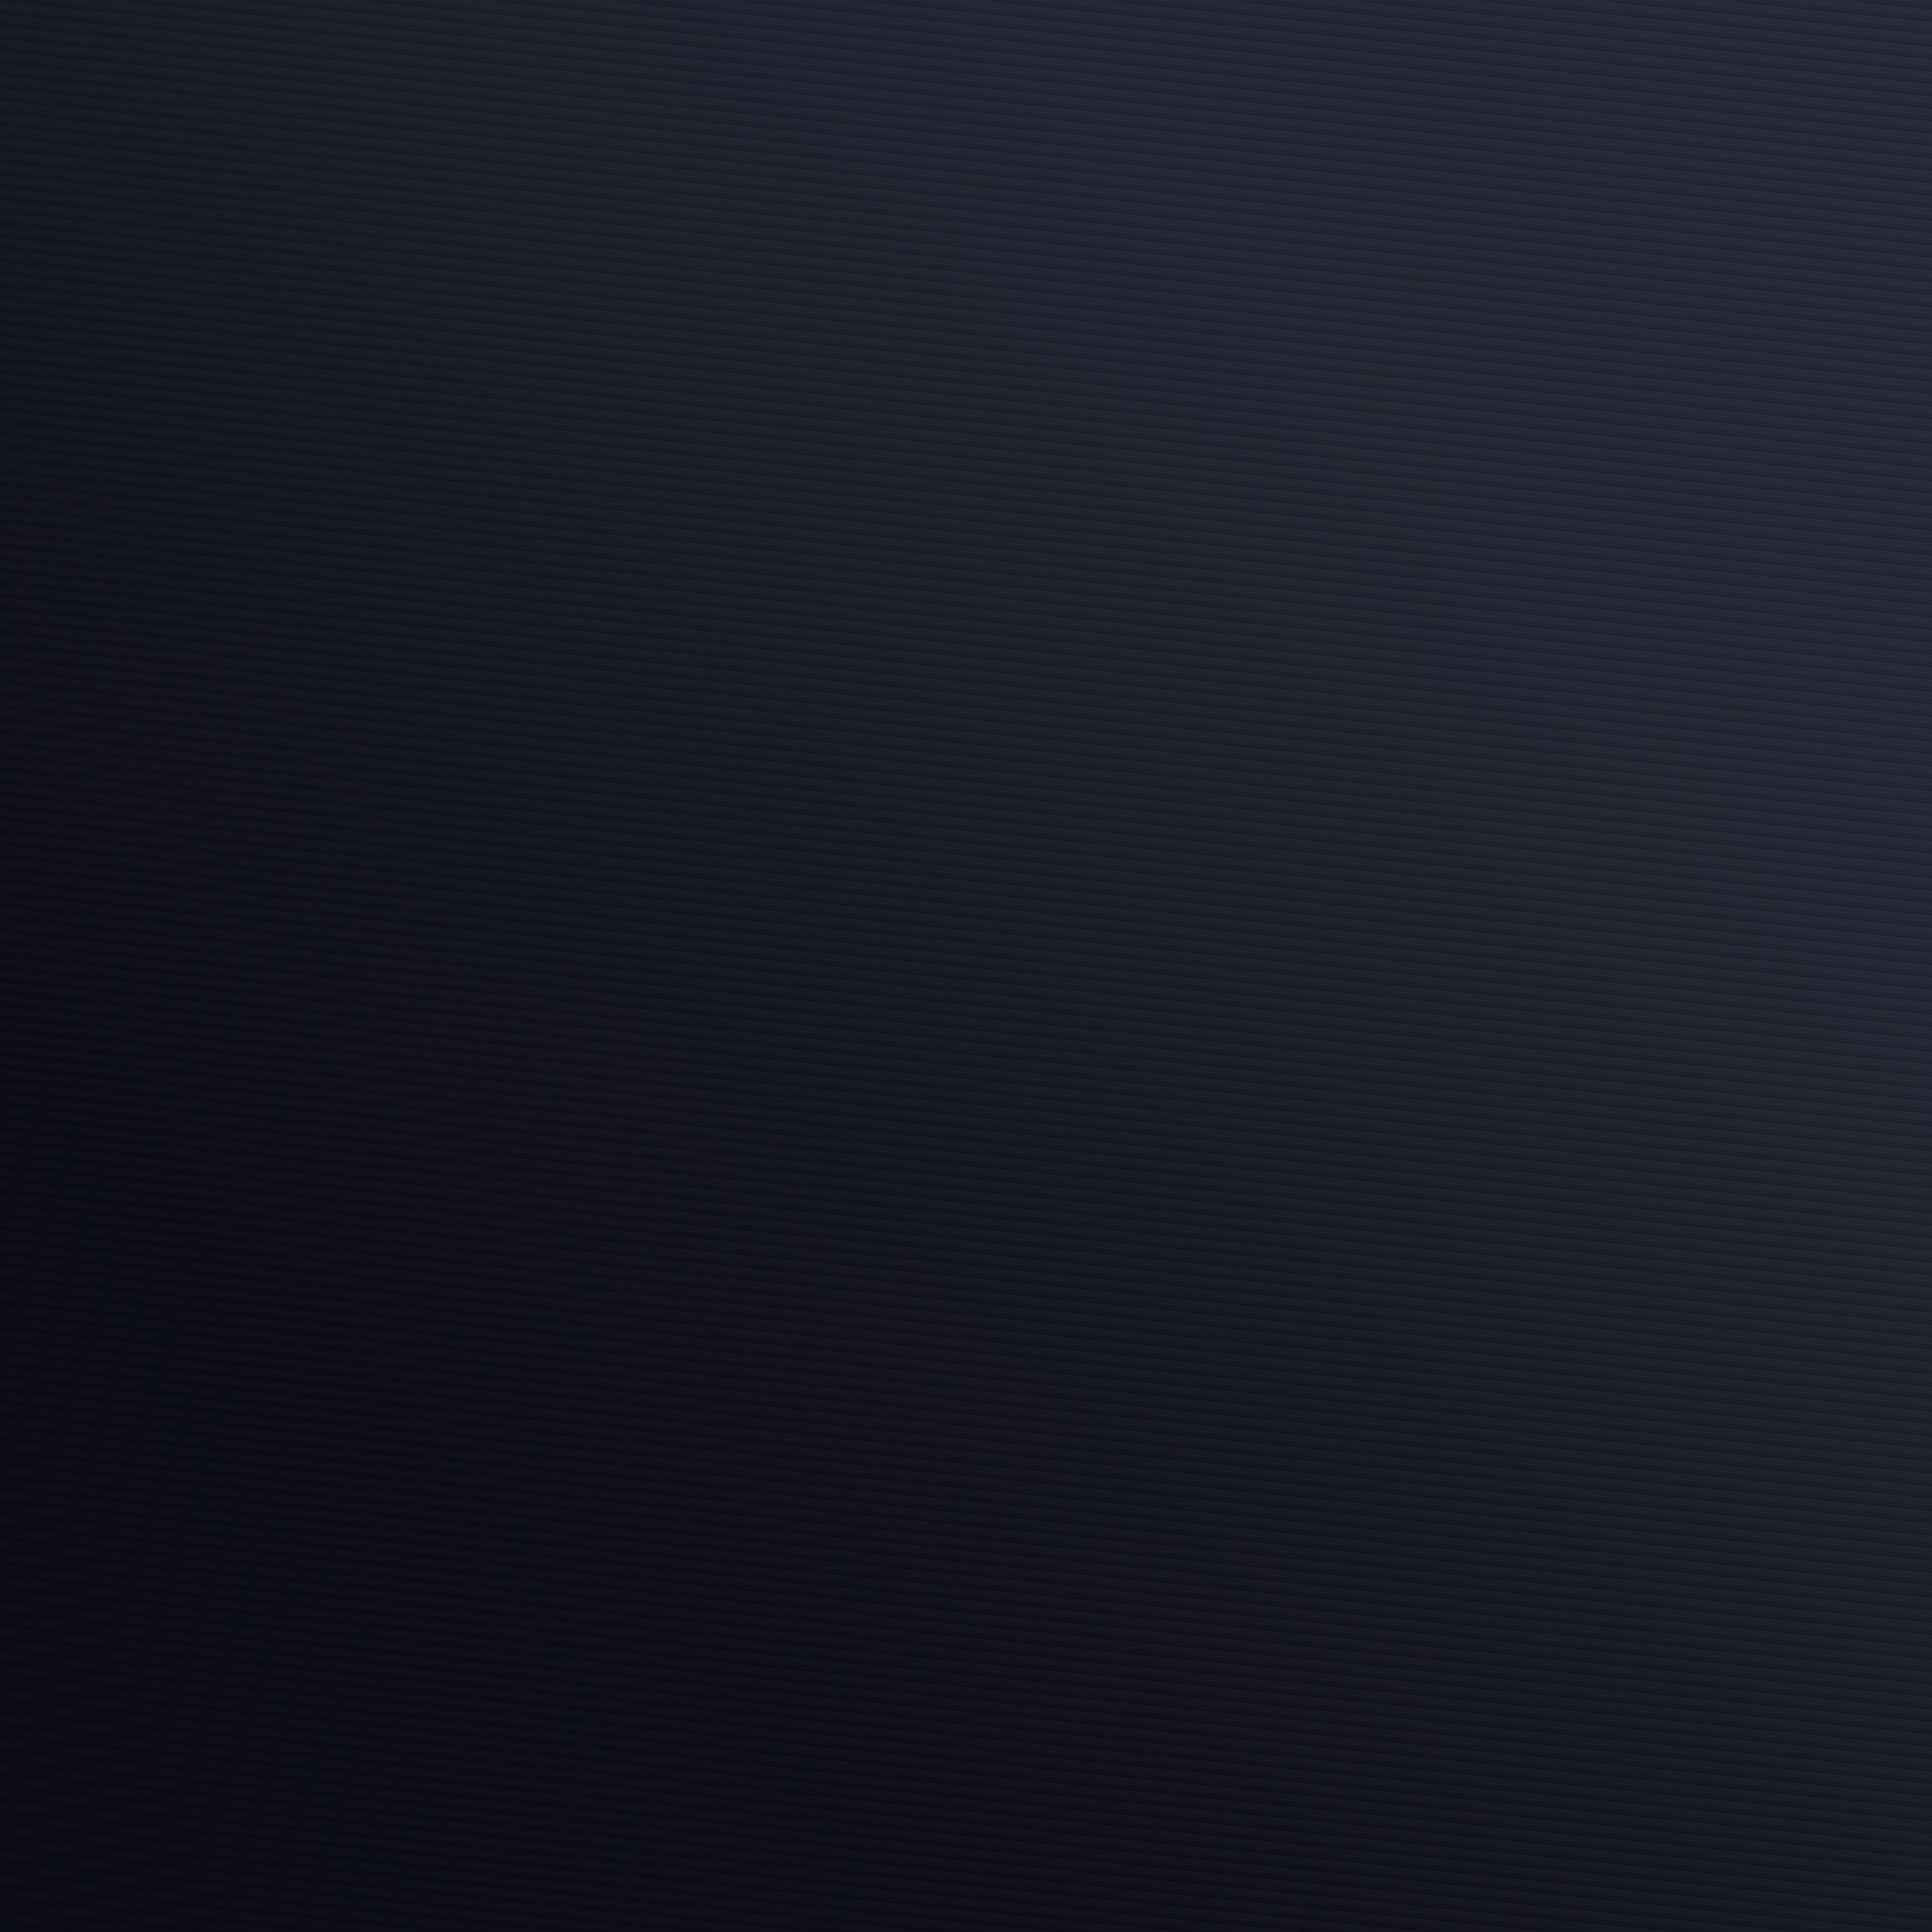
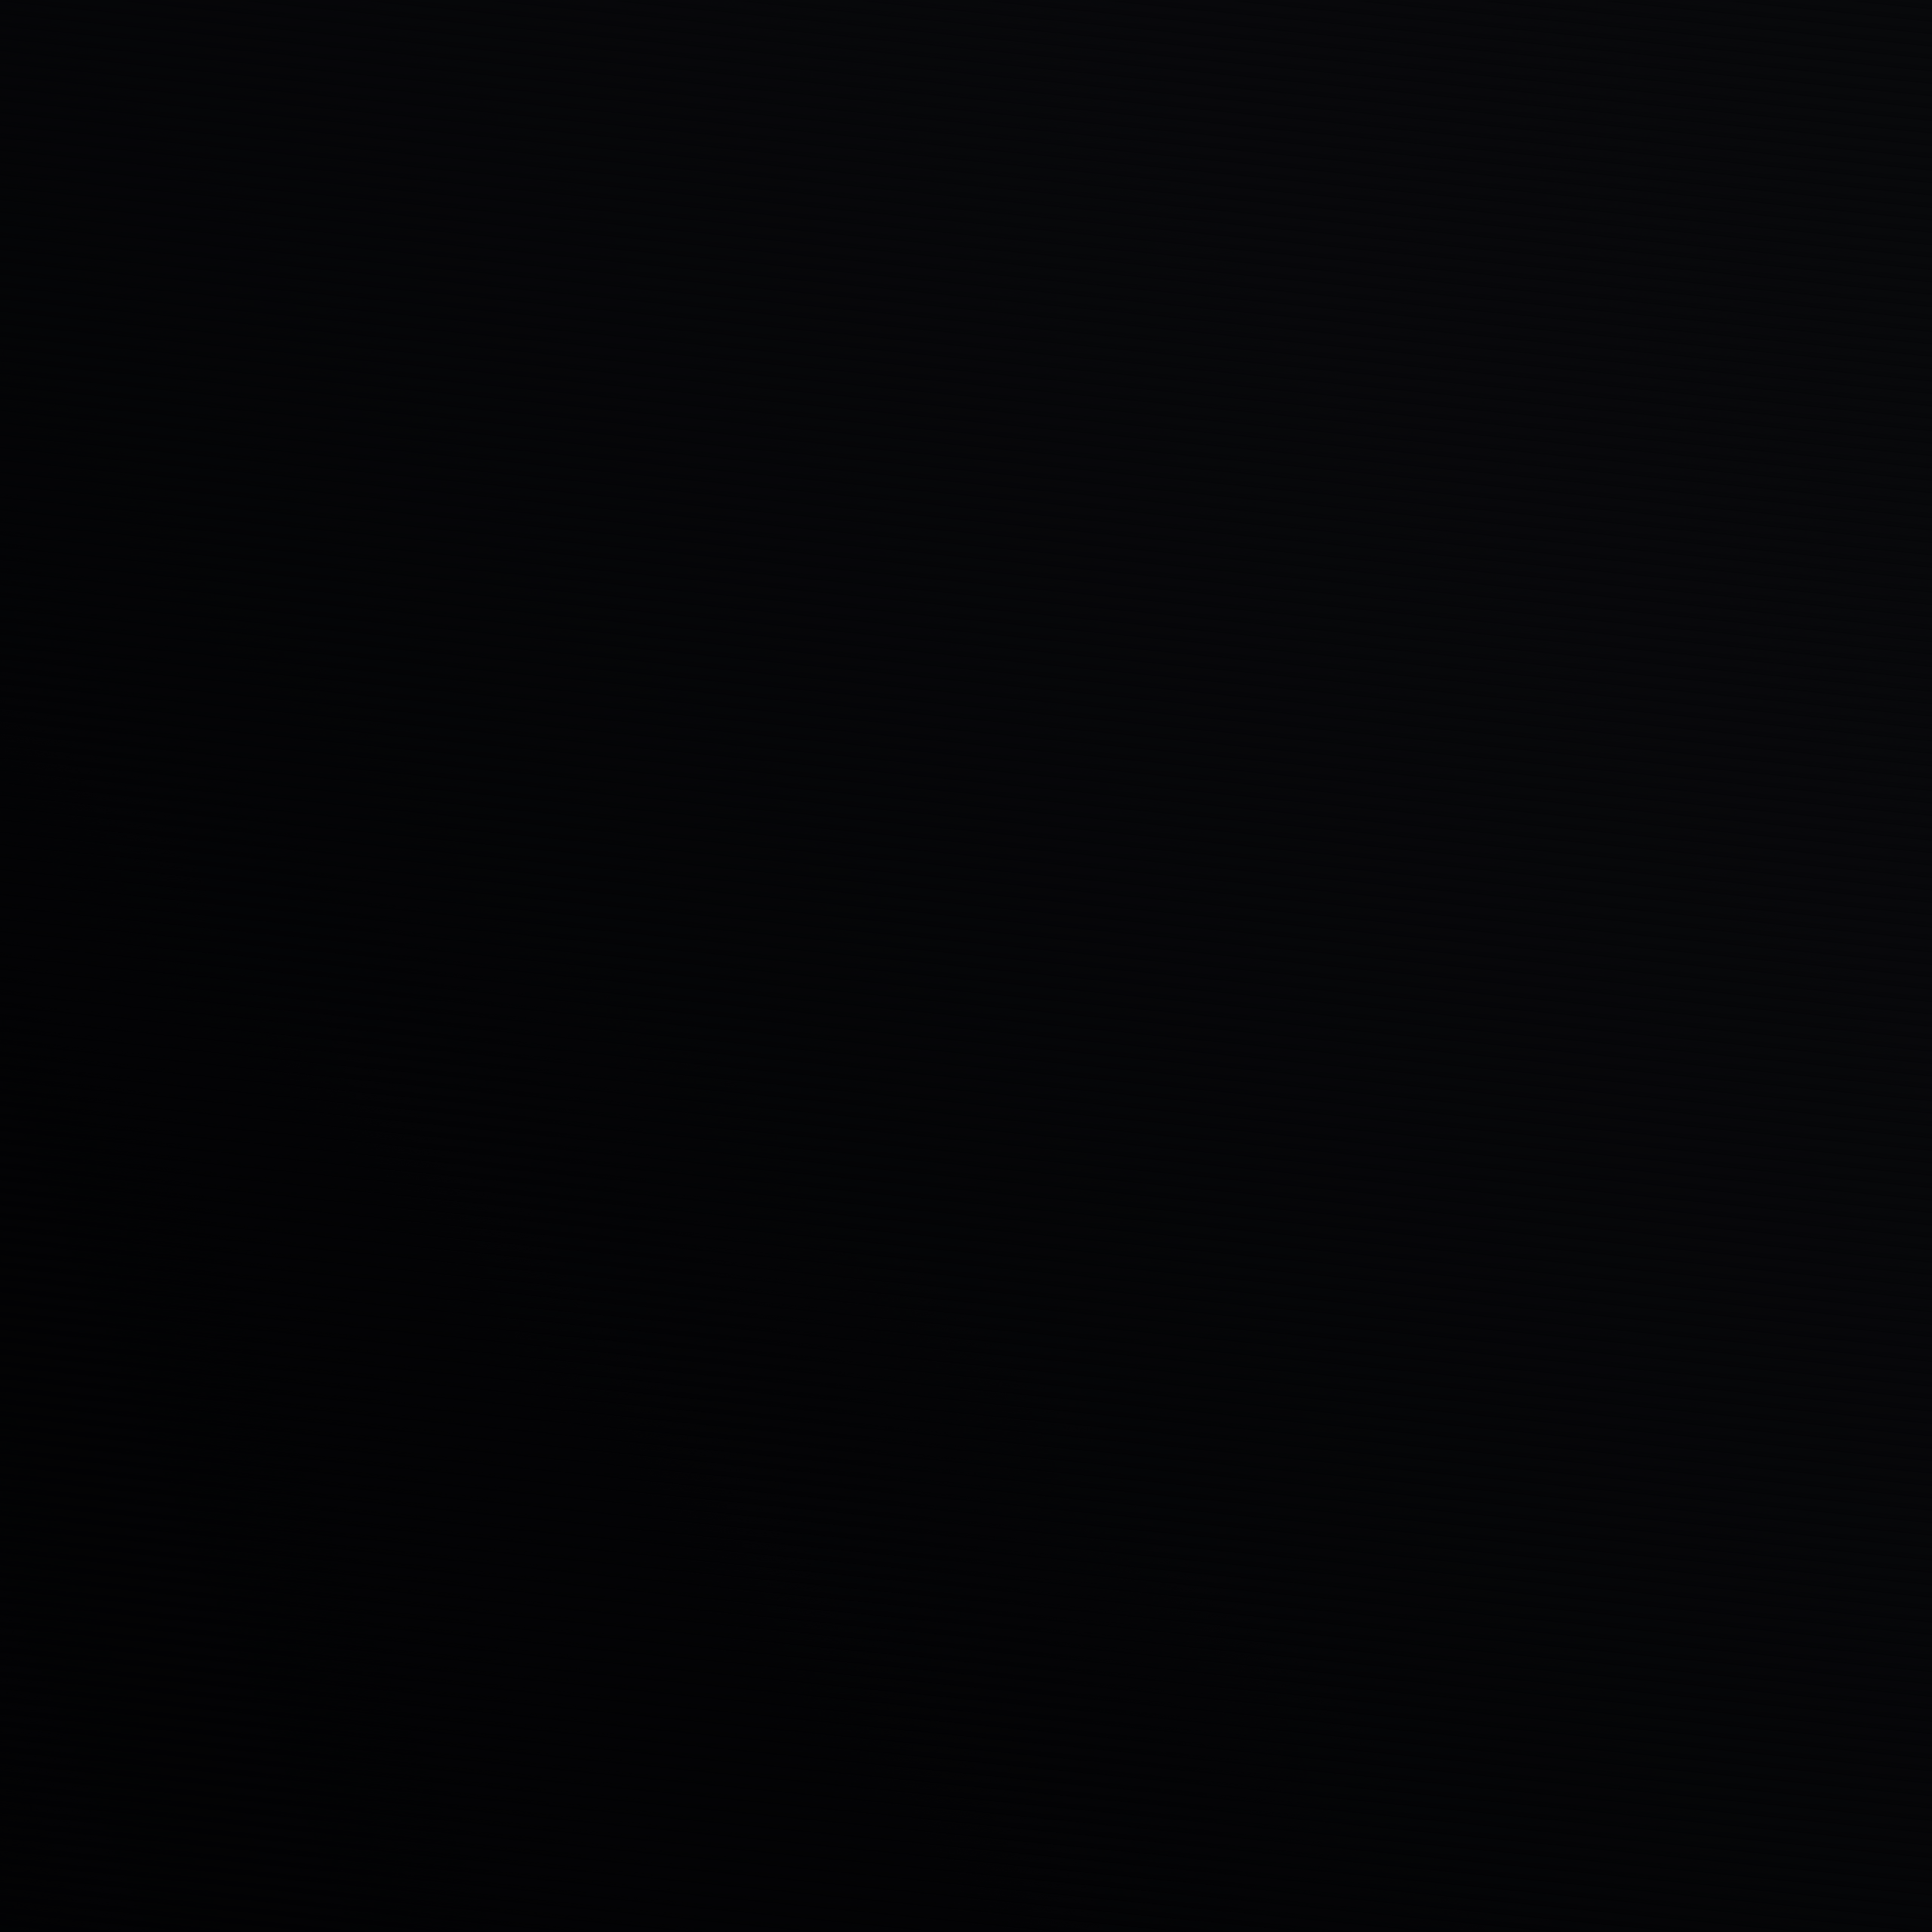
WIP

diff --git a/components/validator.js b/components/validator.js
@@ -11,6 +11,13 @@ import { OverlayTrigger, Tooltip } from 'react-bootstrap';
 
 const API_URL = process.env.API_BASE_URL;
 
+function RenderImage(props) {
+    if(props.img==null) {
+        return '';
+    }
+    else return <Image className="rounded-circle pointer" src={props.img} width={props.size} height={props.size} loading="lazy" alt={props.vote_identity+"-logo"} />
+}
+
 class ValidatorBox extends React.Component {
     static activated_stake;
     static credit_ratio;
@@ -33,7 +40,7 @@ class ValidatorBox extends React.Component {
         if(img==null) {
             return '';
         }
-        else return <Image className="rounded-circle" src={img} width={50} height={50} loading="lazy" alt={this.props.validator.vote_identity+"-logo"} />
+        else return <Image className="rounded-circle pointer" src={img} width={50} height={50} loading="lazy" alt={this.props.validator.vote_identity+"-logo"} />
     }
 
     renderURL(url) {
@@ -101,7 +108,7 @@ class ValidatorBox extends React.Component {
     render() {
         
         return (
-                <div className="row py-2 my-2 border vbox rounded border-white" id={this.props.validator.vote_identity}>
+                <div className="row py-2 my-2 border vbox rounded border-secondary" id={this.props.validator.vote_identity}>
                     <div className="col my-1 mt-3">            
                         <div className="row">                
                             <div className="col apy-value text-center">         
@@ -127,12 +134,20 @@ class ValidatorBox extends React.Component {
                     <div className="col col-md-2 my-2 mobile-name-column">            
                         <div className="row">                
                             <div className="col text-center">                    
-                                {this.renderImage(this.props.validator.image)}
+                                <Link href={'/validator/'+this.props.validator.vote_identity} passHref>
+                                    <RenderImage
+                                        img={this.props.validator.image}
+                                        vote_identity={this.props.validator.vote_identity}
+                                        size={50}
+                                    />
+                                </Link>
                             </div>            
                         </div>            
                         <div className="row pt-2">                
-                            <div className="col text-center vlist-name">                                        
-                                <span className="vlist-name-inner">{this.props.validator.name}</span>                
+                            <div className="col text-center vlist-name">
+                                <Link href={'/validator/'+this.props.validator.vote_identity} passHref>                                        
+                                    <span className="vlist-name-inner pointer">{this.props.validator.name}</span>                
+                                </Link>
                             </div>            
                         </div>        
                     </div>
@@ -405,7 +420,7 @@ function LoadMoreButton(props) {
 }
 
 
-class Validator extends React.Component {
+class ValidatorListing extends React.Component {
   constructor(props) {
     super(props);
     if(this.props.state.validators==null) this.getValidators();
@@ -527,4 +542,87 @@ class Validator extends React.Component {
   }
 }
 
-export default Validator;
+class ValidatorDetail extends React.Component {
+    constructor(props) {
+        super(props);
+        this.state = {
+            validator: null
+        };
+        if(this.props.vote_identity!='') this.getValidator(this.props.vote_identity);
+    }
+
+    getValidator(vote_identity) {
+        axios(API_URL+config.API_ENDPOINTS.validator+'/'+vote_identity, {
+          crossDomain: true,
+          headers: {'Content-Type':'application/json'}
+        })
+          .then(response => {
+            let json = response.data;
+            
+            console.log(json);
+
+            this.setState({
+                validator: json
+            })
+          })
+          .catch(e => {
+            console.log(e);
+            setTimeout(() => { this.getValidator() }, 5000);
+          })
+    }
+
+    render() {
+        if(this.state.validator!=null) {
+            return (
+                <div className='container-sm vbox mt-5 rounded-top'>
+                    <div className='row'>
+                        <div className='col text-center validator-logo'>
+                            <RenderImage
+                                img={this.state.validator.image}
+                                vote_identity={this.state.validator.vote_identity}
+                                size={100}
+                            />
+                        </div>
+                    </div>
+
+                    <div className='row'>
+                        <div className='col text-white text-center p-2'>
+                            <h2>{this.state.validator.name}</h2>
+                        </div>
+                    </div>
+
+                    <div className='row'>
+                        <div className='col bg-dark p-2 m-2 text-white'>
+                            <h3>Description</h3>
+                            <p>{this.state.validator.description}</p>
+                        </div>
+                        <div className='col bg-dark p-2 m-2 text-white'>
+                            <h3>Identities</h3>
+                            <p><span className='fw-bold me-2'>Validator Identity&nbsp;</span>{this.state.validator.identity}</p>
+                            <p><span className='fw-bold me-2'>Vote Account&nbsp;</span>{this.state.validator.vote_identity}</p>
+                        </div>
+                        <div className='col bg-dark p-2 m-2 text-white'>
+                            <h3>Other</h3>
+                            <p><span className='fw-bold me-2'>Website&nbsp;</span>{this.state.validator.website}</p>
+                            <p><span className='fw-bold me-2'>Keybase&nbsp;</span>{this.state.validator.keybase}</p>
+                            <p><span className='fw-bold me-2'>Commission&nbsp;</span>{this.state.validator.commission} %</p>
+                        </div>
+                    </div>
+
+                    
+                </div>
+            )
+        }
+        else {
+            return (
+                <div className="container text-center" id='loading-spinner'>
+                    <div className='spinner-grow text-light' role="status">
+                        <span className='visually-hidden'>Loading...</span>
+                    </div>
+                </div>
+            )
+        }
+    }
+}
+
+export { ValidatorListing, ValidatorDetail }

diff --git a/pages/index.js b/pages/index.js
@@ -1,8 +1,5 @@
 import React from 'react';
-import Head from 'next/head'
-import Image from 'next/image'
-import Link from 'next/link'
-import Validator from '../components/validator.js'
+import { ValidatorListing } from '../components/validator.js'
 import config from '../config.json'
 import 'bootstrap-icons/font/bootstrap-icons.css'
 import {Header, TopBar, Footer} from '../components/common.js';
@@ -32,7 +29,7 @@ class Homepage extends React.Component {
 
   render() {
     return [
-            <Validator
+            <ValidatorListing
                 state={this.state}
                 onClick={(state) => this.updateState(state)}
                 key='validatorParent'

diff --git a/pages/validator/[vote_identity].js b/pages/validator/[vote_identity].js
@@ -4,6 +4,7 @@ import 'bootstrap-icons/font/bootstrap-icons.css'
 import {Header, TopBar, Footer} from '../../components/common.js';
 import { useRouter } from 'next/router'
 import { Activate } from '../../components/alert.js';
+import { ValidatorDetail } from '../../components/validator.js'
 
 export default function Home() {
     
@@ -24,7 +25,9 @@ export default function Home() {
             <TopBar />
     
             <div className="container full-height">
-                <h1>{vote_identity}</h1>
+                <ValidatorDetail
+                    vote_identity={vote_identity}
+                />
             </div>
             
             </main>

diff --git a/css/style.css b/css/style.css
@@ -29,8 +29,8 @@ body {
   font-display:auto;
   font-family:lato;
   font-size:0.9rem;
-  background-color:#333;
-  background-image:url('../public/images/body-bg2.jpg');
+  background-color:#131313;
+  background-image:url('../public/images/body-bg2.webp');
   background-size:cover;
   background-attachment:fixed;
 }
@@ -101,7 +101,6 @@ input:focus {
 }
 
 .vbox {
-  content-visibility: auto;
   background-image:url('../public/images/box-tile.png');
   background-repeat:repeat;
 }
@@ -181,6 +180,10 @@ a:hover {
 
 .alert-button {
   font-size:inherit!important;
+}
+
+.validator-logo {
+  margin-top:-50px;
 }
 
 @media only screen and (max-width: 600px) {

diff --git a/pages/terms.js b/pages/terms.js
@@ -1,12 +1,6 @@
 import React from 'react';
-import Head from 'next/head'
-import Image from 'next/image'
-import Link from 'next/link'
-import Validator from '../components/validator.js'
-import config from '../config.json'
 import 'bootstrap-icons/font/bootstrap-icons.css'
 import {Header, TopBar, Footer} from '../components/common.js'
-import { WizScoreWeightings } from '../components/wizscore.js';
 
 const API_URL = process.env.API_BASE_URL;
 

diff --git a/pages/faq.js b/pages/faq.js
@@ -1,9 +1,5 @@
 import React from 'react';
-import Head from 'next/head'
-import Image from 'next/image'
 import Link from 'next/link'
-import Validator from '../components/validator.js'
-import config from '../config.json'
 import 'bootstrap-icons/font/bootstrap-icons.css'
 import {Header, TopBar, Footer} from '../components/common.js'
 import { WizScoreWeightings } from '../components/wizscore.js';

diff --git a/components/common.js b/components/common.js
@@ -1,6 +1,5 @@
 import Head from 'next/head';
 import React from 'react';
-import Image from 'next/image'
 import Script from 'next/script'
 import Link from 'next/link'
 import { Navbar, Container, Nav, NavDropdown } from 'react-bootstrap'
